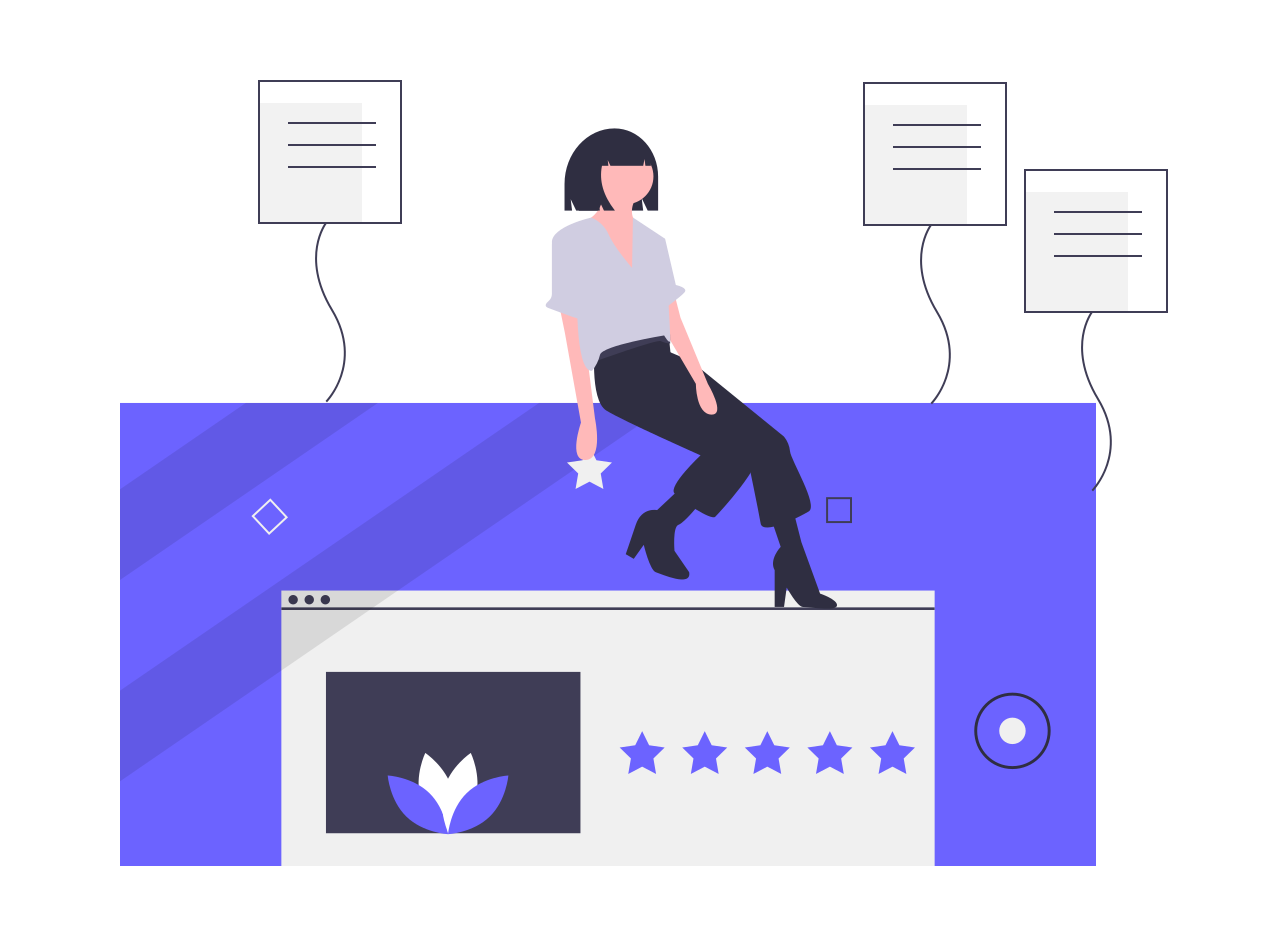
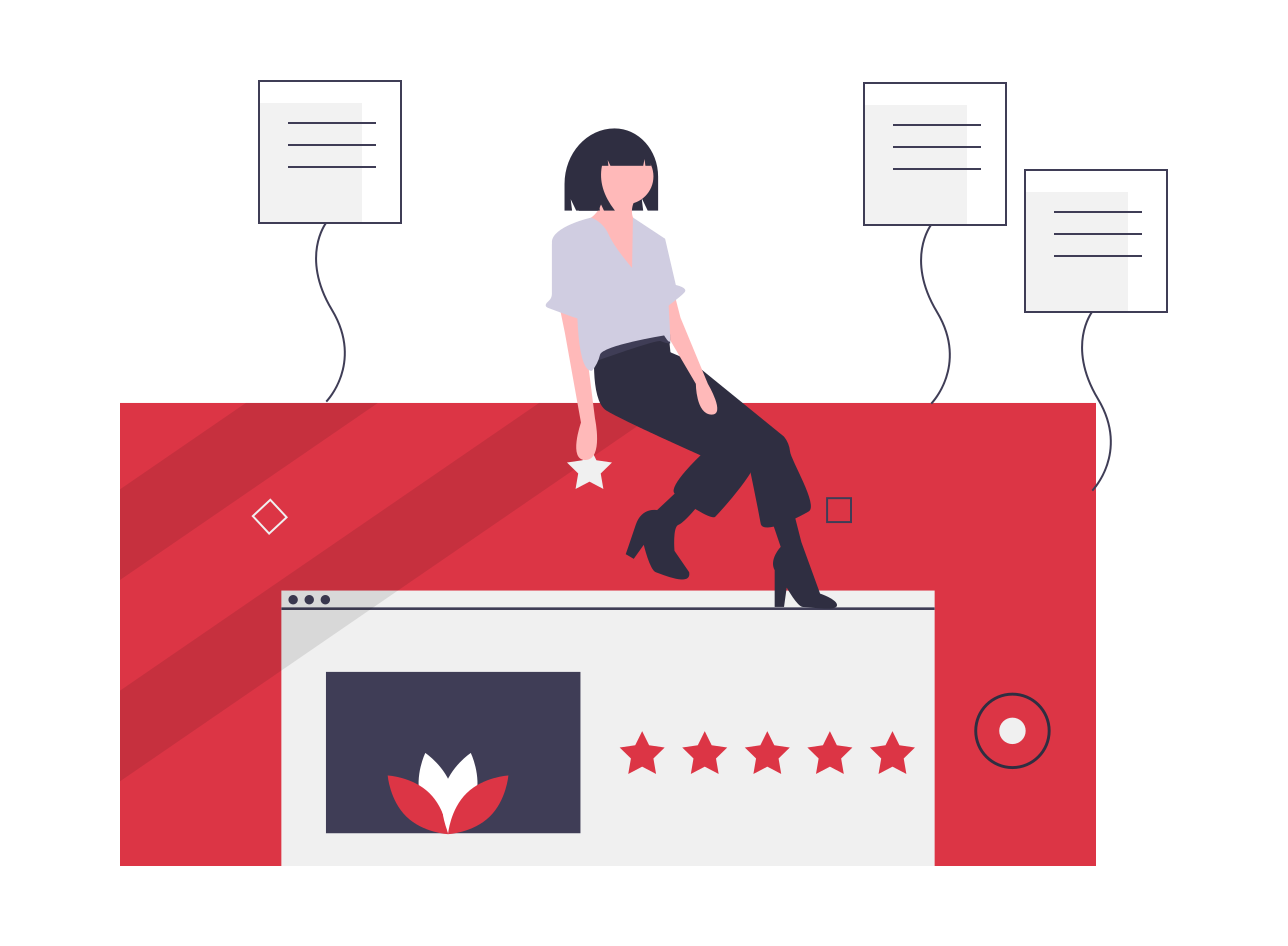
fixed button

Changed region(s): [[0.0932, 0.3985, 0.8696, 0.9197], [0.2795, 0.797, 0.4037, 0.889]]

diff --git a/src/Components/Home/Home.css b/src/Components/Home/Home.css
@@ -15,12 +15,12 @@
 .landing-image {
   display: flex;
   flex-direction: row;
-  margin: 60px 20px 0px 40px;
+  margin: 60px 20px 0px 30px;
   align-items: flex-end;
   justify-content: flex-end;
   width: 100%;
   max-height: 700px;
-  max-width: 600px;
+  max-width: 650px;
   float: right;
 }
 
@@ -51,31 +51,53 @@
 .search-box {
   background-color: white;
   height: 60px;
-  width: 70%;
-  text-align: center;
-  justify-content: center;
+  width: 40%;
+  text-align: left;
+  padding: 15px;
+  float: left;
   border-radius: 25px;
   outline: none;
-  box-shadow: rgba(100, 100, 111, 0.2) 0px 7px 29px 0px;
+  border: 1px solid #dc3545;
 }
 
+.search-box:hover {
+  box-shadow: rgba(0, 0, 0, 0.35) 0px 5px 15px;
+}
 select {
   width: 100%;
+  padding: 15px;
   border-radius: 25px;
   height: 60px;
   outline: none;
-  box-shadow: rgba(100, 100, 111, 0.2) 0px 7px 29px 0px;
+  border: 1px solid #dc3545;
 }
 
 .city-search-box {
   background-color: white;
   padding-left: 0%;
-  padding-right: 0%;
+  padding-right: 2%;
   text-align: center;
   cursor: pointer;
 }
 
+select:hover {
+  box-shadow: rgba(0, 0, 0, 0.35) 0px 5px 15px;
+}
+
 .submit-button {
-  border-radius: 40px;
+  border-radius: 100px;
   height: 60px;
+}
+
+Button {
+  border-radius: 25px;
+}
+
+.submit-text {
+  margin: auto;
+  text-align: center;
+  justify-content: center;
+  padding-top: 5px;
+  font-weight: 600;
+  font-size: 20px;
 }

diff --git a/src/Components/Home/Home.jsx b/src/Components/Home/Home.jsx
@@ -48,7 +48,7 @@ class Home extends React.Component{
                 <div className="city-search-box">
                 <form onSubmit={this.handleSubmit} >
                 <select onChange={this.handleChange} >
-                    <option default>Search by city/pincode</option>
+                    <option default>Search by city</option>
                     <option value="Mumbai">Mumbai</option>
                     <option value="Delhi">Delhi</option>
                     <option value="Patna">Patna</option>
@@ -57,8 +57,10 @@ class Home extends React.Component{
                 </form>
                 </div>
             
-                <Button href="/doctors"  variant="outline-danger" size="lg" className="submit-button">
+                <Button href="/doctors"  variant="danger" size="lg" className="submit-button">
+                    <div className="submit-text">
                     Get Started
+                    </div>  
                 </Button> 
             </div>      
         );
